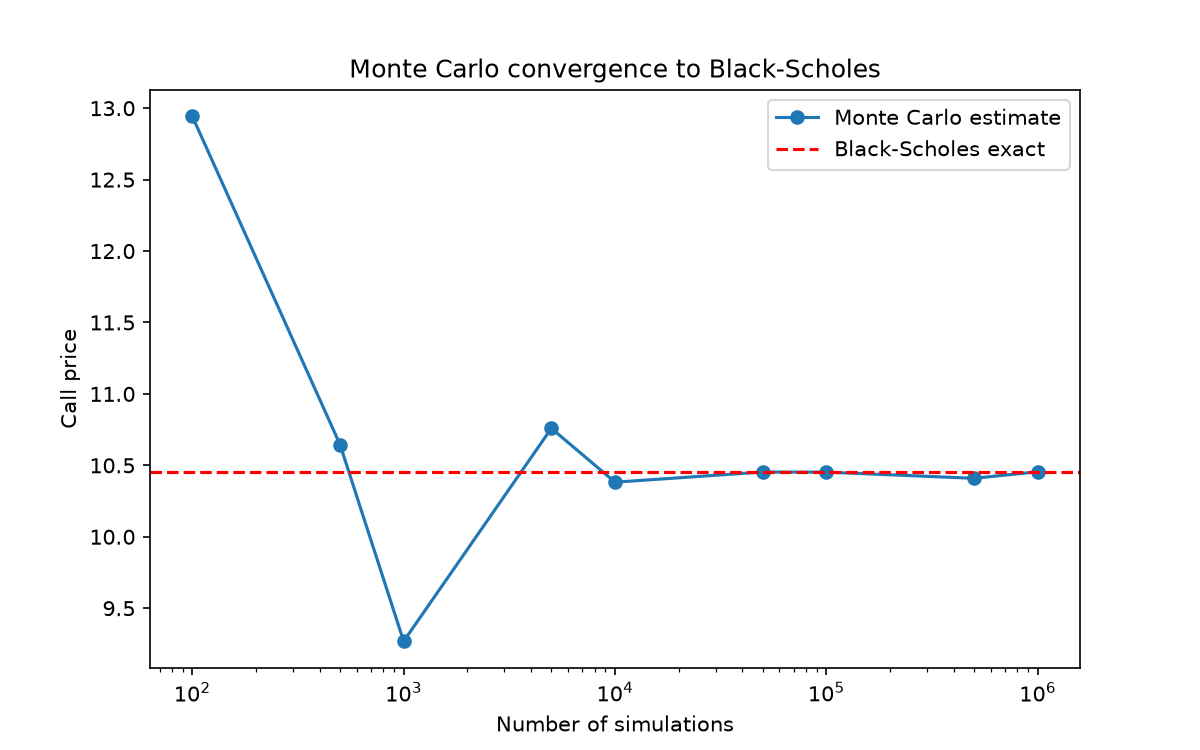
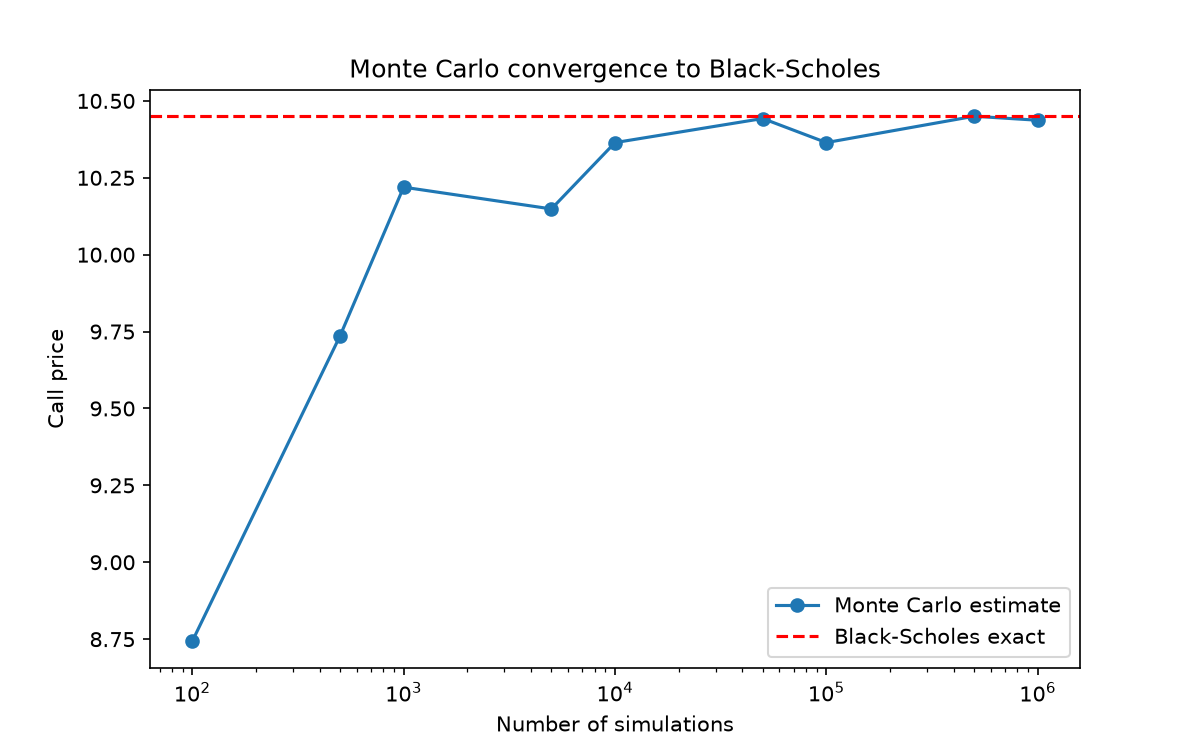
Add implied volatility solvers and volatility smile

diff --git a/implied_vol.py b/implied_vol.py
@@ -1,0 +1,35 @@
+"""Implied volatility solvers (bisection and Newton-Raphson) and a volatility smile."""
+import numpy as np
+
+from black_scholes import black_scholes_call
+from greeks import vega
+
+def implied_vol_bisection(market_price, S, K, T, r, low=1e-6, high=5.0, tol=1e-8):
+    """Recover implied volatility by bisection. Robust: price is monotonic in sigma."""
+    for _ in range(200):
+        mid = 0.5*(low + high)
+        price = black_scholes_call(S, K, T, r, mid)
+        if price > market_price:
+            high = mid
+        else:
+            low = mid
+        if abs(price - market_price) < tol:
+            return mid
+    return mid
+
+def implied_vol_newton(market_price, S, K, T, r, guess=0.2, tol=1e-8):
+    """Recover implied volatility by Newton-Raphson, using vega as the derivative."""
+    sigma = guess
+    for _ in range(100):
+        price = black_scholes_call(S, K, T, r, sigma)
+        v = vega(S, K, T, r, sigma)
+        diff = price - market_price
+        if abs(diff) < tol:
+            return sigma
+        sigma = sigma - diff/v
+    return sigma
+
+if __name__ == "__main__":
+    market = black_scholes_call(100, 100, 1, 0.05, 0.20)
+    print("Bisection recovered:", implied_vol_bisection(market, 100, 100, 1, 0.05))
+    print("Newton recovered: ", implied_vol_newton(market, 100, 100, 1, 0.05))
